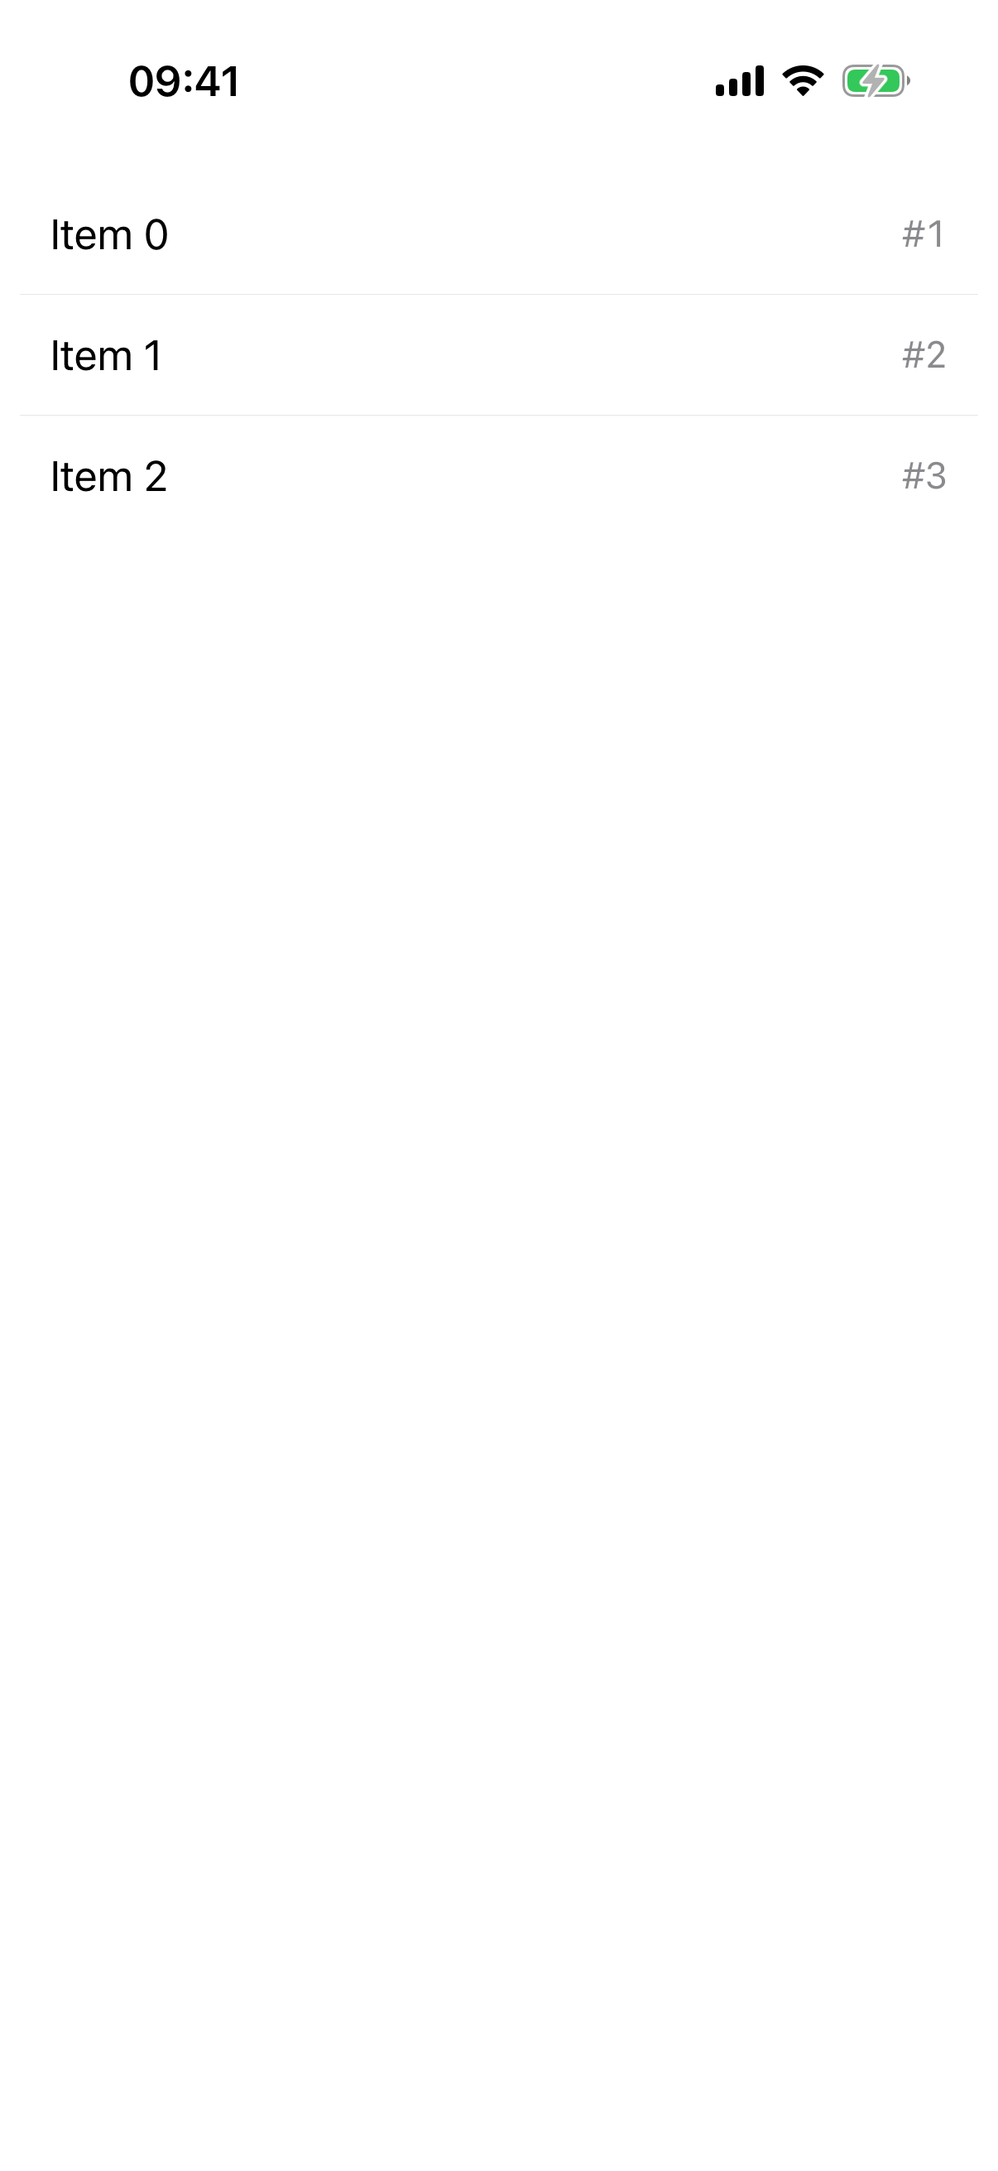
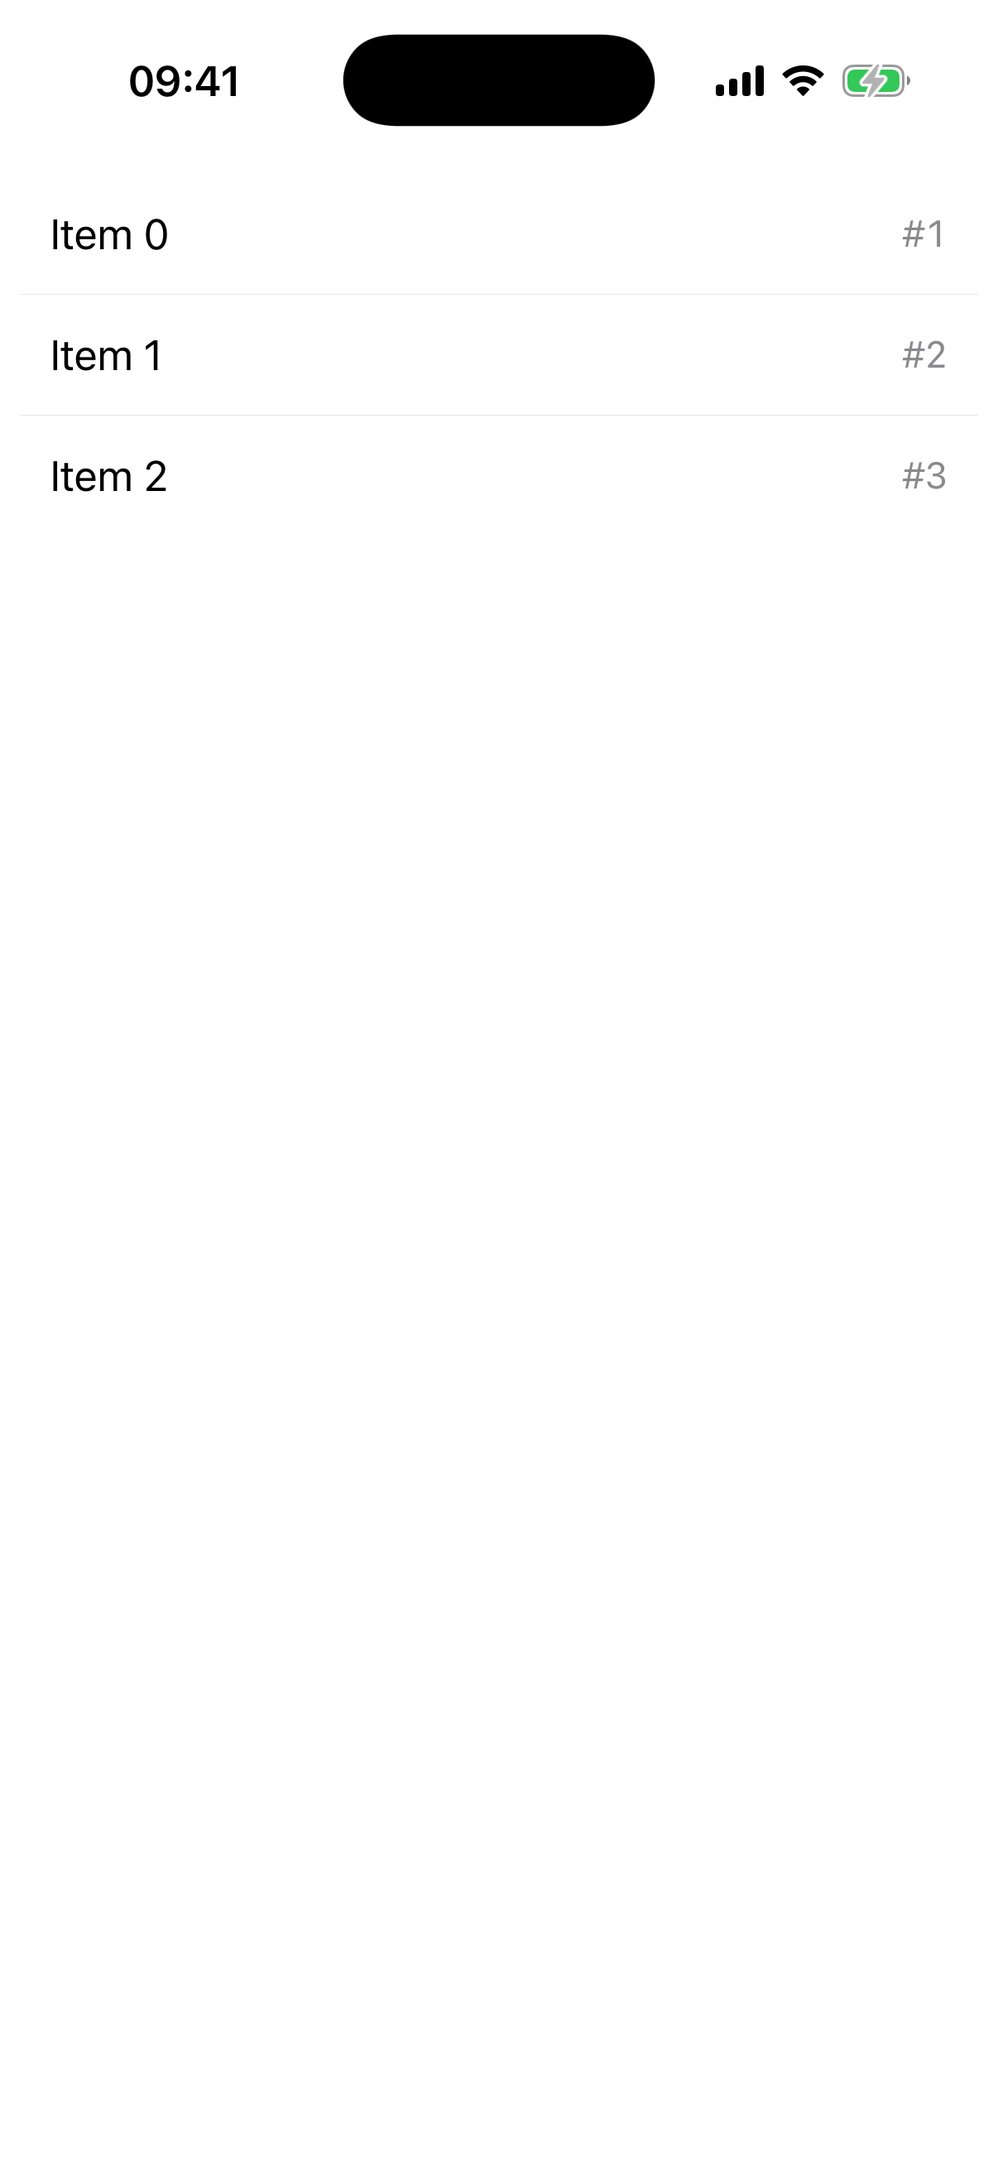
Run Storybook e2e on both backends and record accurate status
- Storybook test switches stories through Metro's channel server when it is
  running, otherwise starts one itself with createChannelServer from
  @storybook/react-native/node, and falls back to deep links when the app
  never connects (stale host baked into the bundle). Waits for the screen
  to settle after each switch.
- Example config allows a 0.01% screenshot difference so Release and Debug
  builds share baselines; Storybook baselines regenerated for iPhone 17 and
  added for Pixel 9.
- Drop the unused EXPO_PUBLIC_STORYBOOK_ENABLED variable from scripts.
- Update ROADMAP, phase plans, the POC plan and research notes with the
  current status; archive the milestone TODO under completed-steps.

Changed region(s): [[0.3375, 0.0, 0.675, 0.0618]]

diff --git a/packages/example-app/e2e/storybook.test.ts b/packages/example-app/e2e/storybook.test.ts
@@ -1,9 +1,33 @@
-import { buildIndex } from "@storybook/react-native/node";
+import { buildIndex, createChannelServer } from "@storybook/react-native/node";
 import { by, device, element } from "mobile-test";
-import { describe, expect, it } from "vitest";
+import { afterAll, describe, expect, it } from "vitest";
 
 const STORYBOOK_CONFIG_PATH = ".rnstorybook";
-const STORYBOOK_CHANNEL_URL = "http://localhost:7007/send-event";
+const STORYBOOK_CHANNEL_PORT = 7007;
+const STORYBOOK_CHANNEL_URL = `http://localhost:${STORYBOOK_CHANNEL_PORT}/send-event`;
+const CLIENT_CONNECT_TIMEOUT_MS = 3_000;
+
+/**
+ * Stories are switched through Storybook's channel server (a websocket the
+ * app connects to on launch). When Metro is running its `withStorybook`
+ * plugin already hosts that server on 7007; otherwise this test starts one
+ * itself with `createChannelServer` from `@storybook/react-native/node`, so a
+ * release build works too. If the app never connects (for example the bundle
+ * was built with a different host IP baked in), stories are switched by
+ * deep-linking `/storybook?STORYBOOK_STORY_ID=...` instead.
+ */
+type StorySwitcher = "channel" | "deeplink";
+
+let ownServer: ReturnType<typeof createChannelServer> = null;
+
+afterAll(() => {
+  const server = ownServer;
+  ownServer = null;
+  if (server) {
+    server.close();
+    ;(server.options as { server?: { close(): void } }).server?.close();
+  }
+});
 
 async function getStoryIds(): Promise<string[]> {
   const index = await buildIndex({ configPath: STORYBOOK_CONFIG_PATH });
@@ -13,25 +37,51 @@ async function getStoryIds(): Promise<string[]> {
     .map((entry) => entry.id);
 }
 
-async function setCurrentStory(storyId: string): Promise<void> {
-  let response: Response;
-
+async function externalChannelReachable(): Promise<boolean> {
   try {
-    response = await fetch(STORYBOOK_CHANNEL_URL, {
+    const response = await fetch(STORYBOOK_CHANNEL_URL, {
       method: "POST",
       headers: { "Content-Type": "application/json" },
-      body: JSON.stringify({
-        type: "setCurrentStory",
-        args: [{ viewMode: "story", storyId }],
-      }),
+      body: JSON.stringify({ type: "ping", args: [] }),
+      signal: AbortSignal.timeout(1_000),
     });
-  } catch (error) {
-    throw new Error(
-      `Failed to send Storybook event to ${STORYBOOK_CHANNEL_URL}. ` +
-        "Ensure Storybook is running and exposing the channel server on port 7007.",
-      { cause: error },
-    );
+    return response.ok;
+  } catch {
+    return false;
   }
+}
+
+/** Start our own channel server unless Metro already provides one. */
+async function ensureChannelServer(): Promise<"external" | "own"> {
+  if (await externalChannelReachable()) return "external";
+  ownServer = createChannelServer({
+    port: STORYBOOK_CHANNEL_PORT,
+    configPath: STORYBOOK_CONFIG_PATH,
+    websockets: true,
+  });
+  return "own";
+}
+
+/** With our own server we can tell whether the app actually connected. */
+async function waitForClient(): Promise<boolean> {
+  if (!ownServer) return true; // external server: assume Metro's app is connected
+  const deadline = Date.now() + CLIENT_CONNECT_TIMEOUT_MS;
+  while (Date.now() < deadline) {
+    if (ownServer.clients.size > 0) return true;
+    await new Promise((r) => setTimeout(r, 200));
+  }
+  return false;
+}
+
+async function sendChannelEvent(storyId: string): Promise<void> {
+  const response = await fetch(STORYBOOK_CHANNEL_URL, {
+    method: "POST",
+    headers: { "Content-Type": "application/json" },
+    body: JSON.stringify({
+      type: "setCurrentStory",
+      args: [{ viewMode: "story", storyId }],
+    }),
+  });
 
   if (!response.ok) {
     const body = await response.text().catch(() => "");
@@ -55,32 +105,40 @@ async function setCurrentStory(storyId: string): Promise<void> {
   }
 }
 
+async function setCurrentStory(switcher: StorySwitcher, storyId: string): Promise<void> {
+  if (switcher === "channel") {
+    await sendChannelEvent(storyId);
+  } else {
+    await device.openUrl({ path: `/storybook?STORYBOOK_STORY_ID=${storyId}` });
+  }
+  // Story switches re-render (the preview decorator updates the backgrounds
+  // global on mount); capture only once the screen is still.
+  await device.waitForAnimationToEnd();
+}
+
 describe("Storybook", () => {
   it("visits every story and captures screenshots", async () => {
     const storyIds = await getStoryIds();
-
     expect(storyIds.length).toBeGreaterThan(0);
 
+    const channel = await ensureChannelServer();
     const firstStoryId = storyIds.at(0)!;
 
     await device.launch({
       path: `/storybook?STORYBOOK_STORY_ID=${firstStoryId}`,
     });
-
     await device.waitForAnimationToEnd();
-
-    await device.openUrl({
-      path: `/storybook?STORYBOOK_STORY_ID=${firstStoryId}`,
-    });
-
     await expect(element(by.id(firstStoryId))).toBeVisible();
+
+    const switcher: StorySwitcher = (await waitForClient()) ? "channel" : "deeplink";
+    console.log(`[storybook-e2e] Channel server: ${channel}; switching stories via ${switcher}`);
 
     for (const [index, storyId] of storyIds.entries()) {
       console.log(
         `[storybook-e2e] Capturing story ${index + 1}/${storyIds.length}: ${storyId}`,
       );
 
-      await setCurrentStory(storyId);
+      await setCurrentStory(switcher, storyId);
 
       await expect(element(by.id(storyId))).toBeVisible();
 

diff --git a/ROADMAP.md b/ROADMAP.md
@@ -365,31 +365,42 @@ Built-in, first-class, not an afterthought:
 
 Detailed plans for each phase live in [`plan/`](./plan/).
 
-> **agent-device POC (done):** the in-house Swift/Kotlin drivers were replaced by agent-device's Node client while keeping the TS API and Vitest runner. See [plan/poc-agent-device-backend.md](./plan/poc-agent-device-backend.md).
+### Current status (2026-09-06)
+
+- Phases 1-3 are complete. Their native drivers were later replaced by the
+  agent-device backend ([plan/poc-agent-device-backend.md](./plan/poc-agent-device-backend.md)),
+  which is merged into this branch and is the only backend.
+- Example-app suite: iOS 13/13 (counter, form, list, animations, device,
+  screenshots, storybook); Android 12/13, the one failure being an
+  agent-device gap (empty `EditText` reports its hint as its value).
+- Unit tests: 100 passing. Package docs: `packages/mobile-test/README.md`.
+- Phase 4 (CLI, HTML report, CI guidance) has not started; the package is
+  usable from a git checkout but is not published.
 
 1. **Phase 1 — iOS Simulator MVP** ✅ [plan](./plan/phase-1-ios-mvp.md)
-   - Swift XCTest driver with HTTP server (tap, type, screenshot, element tree) — since replaced by agent-device
-   - TypeScript client that talks to driver over HTTP
-   - Basic device management via `xcrun simctl`
-   - Screenshot capture and odiff comparison
-   - Vitest integration with `toMatchScreenshot()`
-   - Basic locators: `by.id()`, `by.text()`
+   - Device management, screenshot capture and odiff comparison, Vitest
+     integration with `toMatchScreenshot()`, `by.id()` / `by.text()`
+   - The Swift XCTest driver and its HTTP client built here were removed in
+     favour of agent-device
 
-2. **Phase 2 — Full iOS + Screenshot Workflow** 🔜 [plan](./plan/phase-2-full-ios.md)
-   - Region masking for dynamic content
-   - Element-level screenshots
-   - Additional locators (`by.type()`, `by.label()`, chaining)
-   - Additional actions (`doubleTap()`, `replaceText()`, `scrollTo()`)
-   - Additional assertions (`toBeEnabled()`, `toHaveAttribute()`)
+2. **Phase 2 — Full iOS + Screenshot Workflow** ✅ [plan](./plan/phase-2-full-ios.md)
+   - Region masking, element-level screenshots
+   - Locators `by.label()`, `by.role()` (replaced `by.type()`), `atIndex()`, `withAncestor()`
+   - Actions `doubleTap()`, `longPress()`, `replaceText()`, `clear()`, `scrollTo()`, `scrollToEnd()`
+   - Assertions `toBeEnabled()`, `toHaveValue()`; `waitForAnimationToEnd()`
 
 3. **Phase 3 — Android Support** ✅ [plan](./plan/phase-3-android.md)
-   - Kotlin UIAutomator driver with HTTP server (same API as iOS) — since replaced by agent-device
-   - ADB-based device management
-   - Port forwarding setup
-   - Cross-platform test running
+   - Emulator selection, cross-platform config and projects, shared test files
+   - The Kotlin UIAutomator driver built here was removed in favour of
+     agent-device; validation of the shared suite was completed on the
+     agent-device backend
 
-4. **Phase 4 — Polish** [plan](./plan/phase-4-polish.md)
+4. **agent-device backend** ✅ [plan](./plan/poc-agent-device-backend.md)
+   - `Backend` seam, `AgentDeviceBackend`, session-based Vitest setup
+   - Native drivers deleted; docs and baselines updated; timings recorded
+
+5. **Phase 4 — Polish** ⏳ not started [plan](./plan/phase-4-polish.md)
    - CLI tool (`bunx mobile-test init`, `bunx mobile-test run`)
    - HTML report with screenshot diffs
    - CI/CD guidance and examples
-   - Documentation
+   - Documentation beyond the package README

diff --git a/packages/mobile-test/completed-steps/poc-agent-device/agent-device-backend-poc.md b/packages/mobile-test/completed-steps/poc-agent-device/agent-device-backend-poc.md
@@ -30,7 +30,7 @@ Findings and timings live in `../../research/agent-device-programmatic-api.md`.
 ## M3 — iOS parity
 
 - [x] counter, form, list, animations pass on iPhone 17 (baselines regenerated for the Dynamic Island).
-- [ ] Storybook test (needs the Storybook dev build + channel server; not backend related).
+- [x] Storybook test: passes on iOS and Android, with Metro (channel server) and without (self-started channel server or deep links).
 - [x] Timing comparison against the native driver: 60.3s native vs 45.9s agent-device (the env override was removed with the native backend).
 
 ## M4 — Android parity
@@ -43,7 +43,7 @@ Findings and timings live in `../../research/agent-device-programmatic-api.md`.
 - [x] Delete `ios-driver/`, `android-driver/`, `scripts/build-drivers.sh`, `src/driver/`, `src/device/detect.ts`, `src/device/{ios,android}-device.ts`, `src/backend/legacy-driver.ts` and their tests.
 - [x] Removed `build:drivers` scripts. `execa` stays for `simctl status_bar` and adb key events.
 - [x] Update `ROADMAP.md`, package `CLAUDE.md`/`AGENTS.md`, README.
-- [ ] Move this file to `completed-steps/poc-agent-device/`.
+- [x] Moved to `completed-steps/poc-agent-device/` on 2026-09-06.
 
 ## M6 — Ready to try
 
@@ -53,5 +53,4 @@ Findings and timings live in `../../research/agent-device-programmatic-api.md`.
 - [x] `by.type(number)` removed; `by.role(string)` is the replacement.
 - [x] e2e coverage for `openUrl` on a running app, `hideKeyboard`, `pressHome` + relaunch, `setLocation`, element-level screenshots and masks (`e2e/device.test.ts`, `e2e/screenshots.test.ts`): 12/12 on iOS, 11/12 on Android (hint gap).
 - [x] `packages/mobile-test/README.md` quick start + API reference; root README "Try it".
-- [ ] Storybook test (needs the Storybook dev build).
-- [ ] Android hint-as-value gap (upstream; issue draft in the research doc).
+- [ ] Android hint-as-value gap: blocked on agent-device (issue draft in `research/agent-device-programmatic-api.md`). Tracked in the POC plan's known gaps, not here.

diff --git a/README.md b/README.md
@@ -85,18 +85,39 @@ is in [`plan/poc-agent-device-backend.md`](./plan/poc-agent-device-backend.md).
 The package README has the setup, config and API reference:
 [`packages/mobile-test/README.md`](./packages/mobile-test/README.md).
 
-To run the example app suite from this repo:
-
 ```bash
 bun install
 cd packages/mobile-test && bun run build
 cd ../example-app
-bun expo run:ios --configuration Release --device "iPhone 17"   # installs a Release build on the simulator
-bun run test:e2e                                                 # iOS simulator
-bun run test:e2e:android                                         # booted Android emulator
 ```
 
-Release builds embed the JS bundle, so Metro does not need to be running.
+Two ways to put the example app on a device. Either works with every test;
+only one can be installed at a time because they share a bundle id.
+
+**Release build (self-contained).** The JS bundle is embedded, so nothing else
+needs to run. Best for CI and for a quick look.
+
+```bash
+bun expo run:ios --configuration Release --device "iPhone 17"
+bun expo run:android --variant release
+bun run test:e2e            # iOS simulator
+bun run test:e2e:android    # booted Android emulator
+```
+
+**Debug build + Metro (fast iteration).** Build once, then edit the app or the
+tests and rerun without rebuilding.
+
+```bash
+bun expo run:ios --device "iPhone 17"   # once
+bun start                               # keep Metro running
+bun run test:e2e
+```
+
+The Storybook test works with both: Metro's Storybook plugin hosts the story
+channel server, and without Metro the test starts that server itself
+(`createChannelServer` from `@storybook/react-native/node`) or falls back to
+deep links.
+
 The first run on a fresh simulator builds agent-device's iOS runner with Xcode
 and takes a few minutes; later runs reuse it.
 

diff --git a/research/agent-device-programmatic-api.md b/research/agent-device-programmatic-api.md
@@ -360,3 +360,28 @@ To file against callstack/agent-device once confirmed on the latest version.
 > Repro: open any app with an empty `TextInput` that has a placeholder, run
 > `agent-device snapshot --raw --json --platform android`, compare the node
 > before and after `fill`.
+
+## Storybook e2e on the agent-device backend
+
+`e2e/storybook.test.ts` passes on iOS (9 stories, ~6s with Metro, ~20s via
+deep links) and Android (~35-40s). Three ways to switch stories, chosen at
+runtime:
+
+1. Metro running with `withStorybook`: its channel server on port 7007
+   accepts `setCurrentStory` events (`POST /send-event`).
+2. No Metro: the test starts the same server itself with
+   `createChannelServer` from `@storybook/react-native/node`. The app connects
+   to the host IP baked into `storybook.requires.ts` at bundle time.
+3. If no client connects within 3s (stale baked host IP, as happens when the
+   machine changes network after a release build), stories are switched by
+   deep-linking `/storybook?STORYBOOK_STORY_ID=<id>`, which
+   `@storybook/react-native` handles itself.
+
+`send-event` returns `success: true` even with zero connected clients, so
+the test checks `wss.clients.size` on its own server rather than trusting the
+response. Story switches need `waitForAnimationToEnd()` before capturing (the
+preview decorator updates the backgrounds global on mount).
+
+Release vs Debug builds render a few pixels differently (~0.001% of the
+frame on the form screen). The example config sets
+`screenshots.maxDiffPercentage: 0.01` so one set of baselines serves both.

diff --git a/plan/phase-3-android.md b/plan/phase-3-android.md
@@ -1,5 +1,7 @@
 # Phase 3: Android Support — Detailed Plan
 
+> **Status (2026-09-06):** Complete. The Kotlin UIAutomator driver, adb device detection and view-hierarchy normalization described here were removed on 2026-09-06 and replaced by the agent-device backend. The shared example-app suite was validated on that backend: 12/13 on a Pixel 9 emulator, the remaining failure being agent-device reporting an empty `EditText`'s hint as its value.
+
 > Goal: Add Android emulator/device support using the same HTTP/JSON protocol as iOS. A single test file should run on both platforms.
 
 ---
@@ -114,7 +116,7 @@ Android's `dumpWindowHierarchy()` returns XML with different attribute names tha
 - [x] M3: Port forwarding and connection
 - [x] M4: Cross-platform test config
 - [x] M5: View hierarchy normalization
-- [ ] Phase 3 validation complete
+- [x] Phase 3 validation complete (on the agent-device backend, 2026-09-06)
 
 ### Current Stage
 

diff --git a/packages/mobile-test/completed-steps/phase-3/phase-3-validation-paused-for-agent-device-poc.md b/packages/mobile-test/completed-steps/phase-3/phase-3-validation-paused-for-agent-device-poc.md
@@ -10,3 +10,10 @@ Close out Phase 3 from `../../plan/phase-3-android.md`: validate that the cross-
 - [x] Implement the remaining Android gap that blocks full shared-suite signoff: `/clearText` now exists in the Android driver so `element.clear()` can drive `packages/example-app/e2e/form.test.ts`.
 - [ ] Run the shared example-app E2E suite through the named iOS project path on a real booted simulator.
 - [ ] Update the Phase 3 plan snapshot once the end-to-end validation evidence is in place.
+
+## Outcome (2026-09-06)
+
+The remaining items were completed on the agent-device backend after the
+native drivers were removed: the shared suite runs through the iOS project
+(13/13) and the Android project (12/13; see the POC record for the one gap).
+The "update the Phase 3 plan snapshot" item is reflected in `plan/phase-3-android.md`.

diff --git a/plan/poc-agent-device-backend.md b/plan/poc-agent-device-backend.md
@@ -1,6 +1,6 @@
 # POC — agent-device as the native backend
 
-> Status: done. iOS suite passes; Android passes except one assertion blocked by an agent-device gap (see research doc). Native drivers removed.
+> Status: done and hardened (2026-09-06). Native drivers removed. iOS 13/13, Android 12/13 on the example-app suite; the one Android failure is an agent-device gap (empty `EditText` reports its hint as its value, issue draft in the research doc). Storybook runs with Metro (channel server) or without (self-started channel server / deep links). Draft PR: https://github.com/dannyhw/mobile-test/pull/9
 > Companion research: [research/agent-device-programmatic-api.md](../research/agent-device-programmatic-api.md)
 
 ## The idea in one paragraph

diff --git a/plan/phase-4-polish.md b/plan/phase-4-polish.md
@@ -1,5 +1,7 @@
 # Phase 4: Polish — Detailed Plan
 
+> **Status (2026-09-06):** Not started. Already covered elsewhere: `packages/mobile-test/README.md` (setup, API, config, limitations) and the root README "Try It" section. Still open: CLI, HTML report, CI/CD example, a docs site.
+
 > Goal: Make the framework ready for public release with CLI tooling, reporting, CI guidance, and documentation.
 
 ---
@@ -73,7 +75,7 @@ Visual report showing baseline vs latest vs diff for each screenshot test.
 - [ ] Public release polish work started
 - [ ] CLI entrypoint implemented
 - [ ] Report generation implemented
-- [ ] Release-facing docs drafted
+- [x] Release-facing docs drafted (package README; no docs site yet)
 
 ### Verification Snapshot
 

diff --git a/packages/mobile-test/README.md b/packages/mobile-test/README.md
@@ -86,6 +86,12 @@ The first run on a fresh simulator builds agent-device's iOS runner with
 Xcode, which takes a few minutes. Later runs reuse the cached runner. In CI,
 run `agent-device prepare ios-runner` once after booting the simulator.
 
+Any installed build of your app works: a release build with the bundle
+embedded, or a debug build served by Metro while you iterate. Screenshot
+baselines are shared between the two; the builds render a few pixels
+differently, so set `screenshots.maxDiffPercentage` to a small value (the
+example app uses `0.01`) if you switch between them.
+
 ## API
 
 ### Device

diff --git a/plan/phase-1-ios-mvp.md b/plan/phase-1-ios-mvp.md
@@ -1,5 +1,7 @@
 # Phase 1: iOS Simulator MVP — Detailed Plan
 
+> **Status (2026-09-06):** Complete. The Swift XCTest driver, HTTP client and simctl device detection described here were removed on 2026-09-06 and replaced by the agent-device backend (see `poc-agent-device-backend.md`). The TypeScript API, screenshot workflow and Vitest integration remain as designed.
+
 > Goal: A working end-to-end flow where a developer writes a Vitest test in TypeScript, runs it against a booted iOS simulator, and gets screenshot comparison results.
 
 ---

diff --git a/plan/phase-2-full-ios.md b/plan/phase-2-full-ios.md
@@ -1,5 +1,7 @@
 # Phase 2: Full iOS + Screenshot Workflow — Detailed Plan
 
+> **Status (2026-09-06):** Complete. Everything in the checklist below still exists, now on the agent-device backend. `by.type(number)` was replaced by `by.role(string)`; `element.clear()` sends delete keys instead of calling the removed native `/clearText` endpoint.
+
 > Goal: Complete the iOS experience with region masking, element-level screenshots, more locators, actions, and assertions. After this phase, the iOS side is production-ready.
 
 ---
